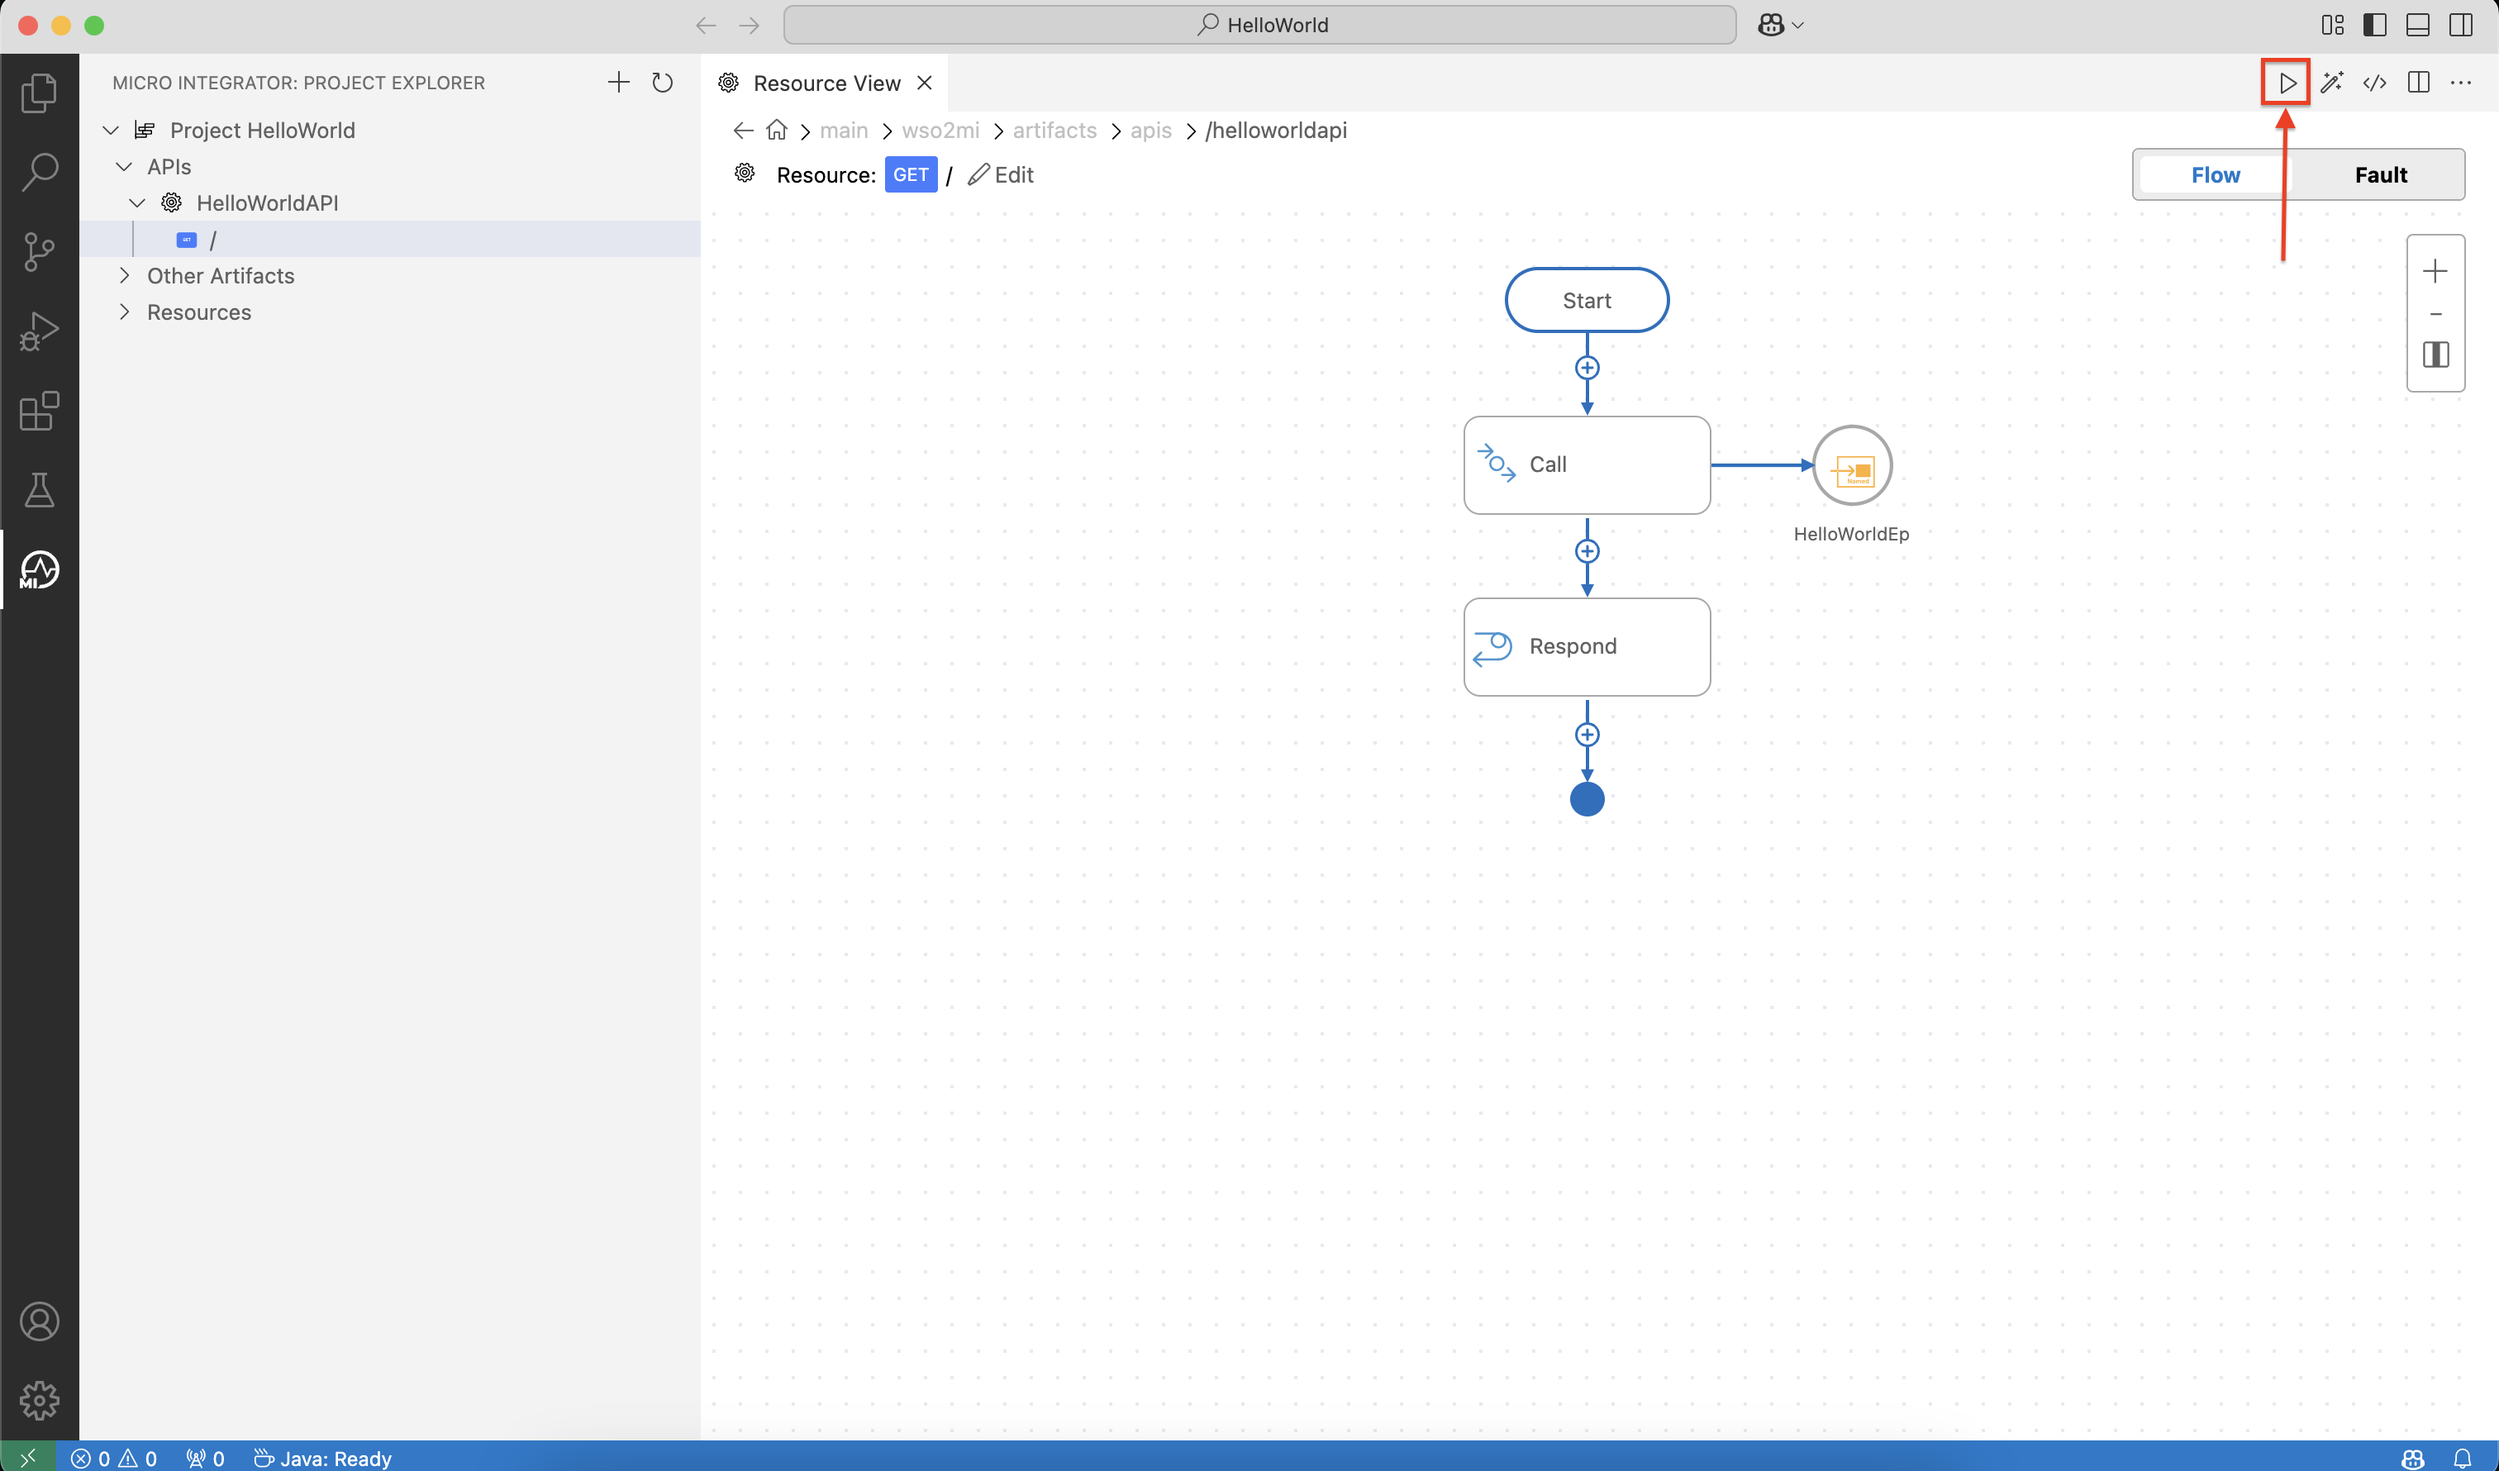
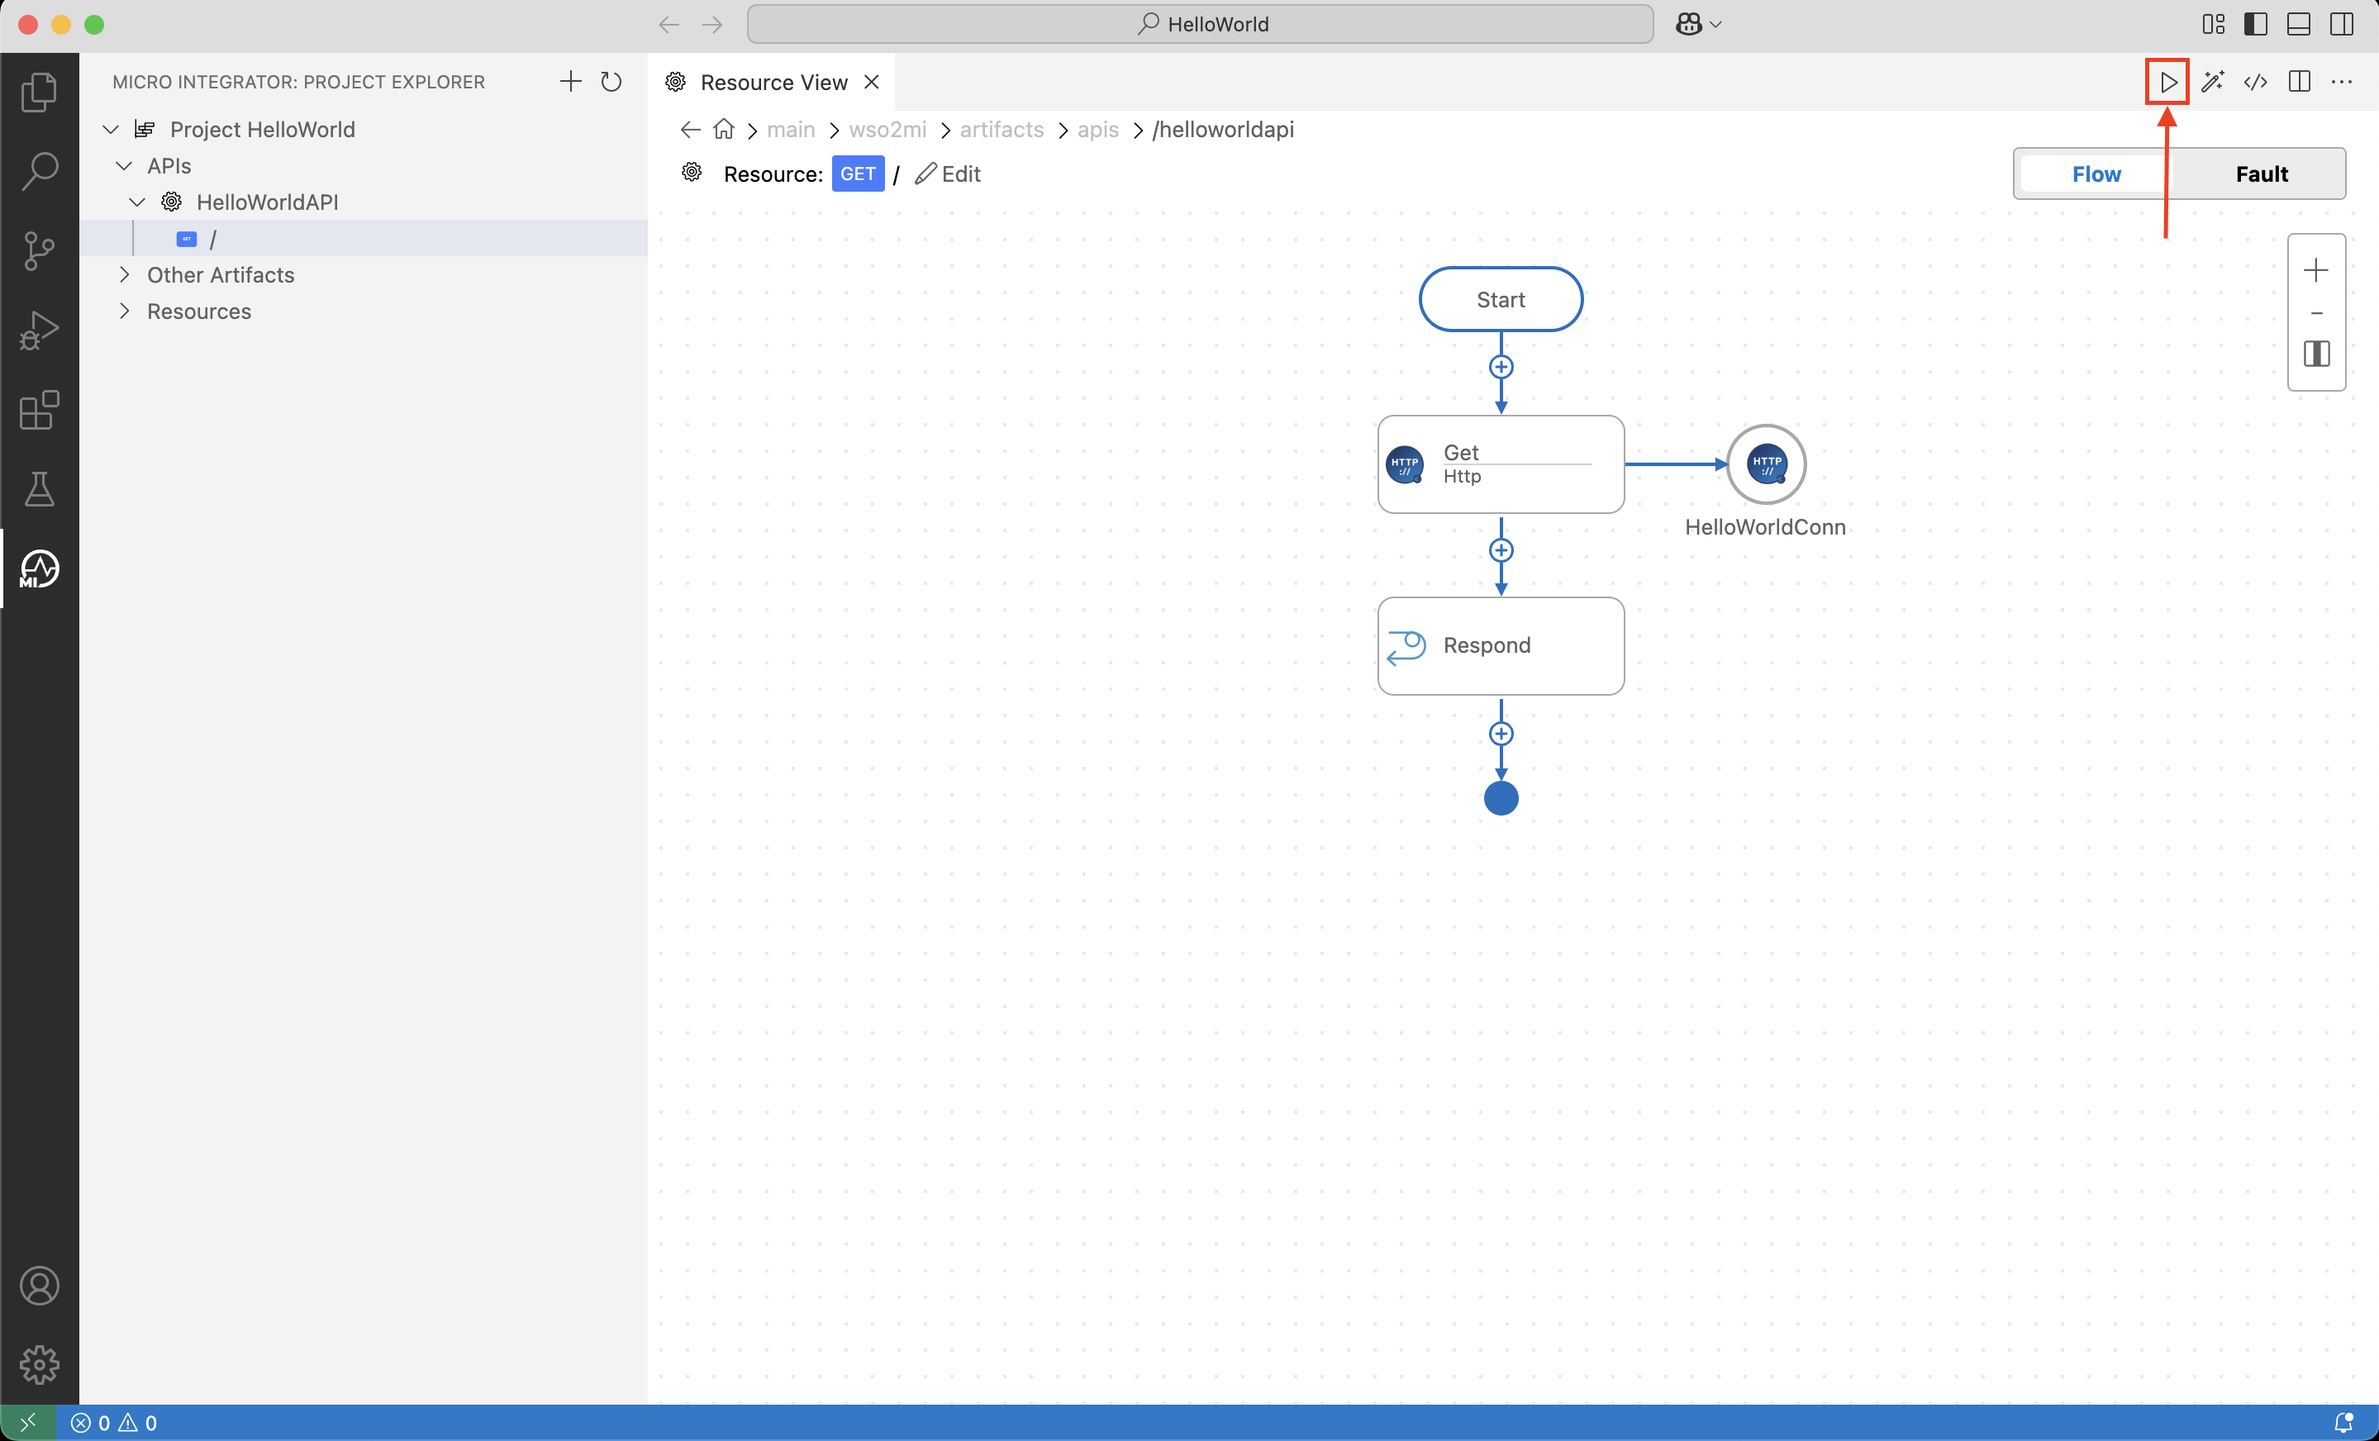
Update QSG

diff --git a/en/docs/get-started/quick-start-guide.md b/en/docs/get-started/quick-start-guide.md
@@ -46,7 +46,7 @@ To develop the above scenario, let's get started with creating an integration pr
 
     <a href="{{base_path}}/assets/img/develop/mi-for-vscode/mi-vscode-extension.png"><img src="{{base_path}}/assets/img/develop/mi-for-vscode/mi-vscode-extension.png" alt="MI VS Code Extension" width="80%"></a>
 
-3. Click **Create New Project** on **Micro Integrator Project Explorer**. For more options to create a new integration project, see [Create an Integration Project]({{base_path}}/develop/create-integration-project).
+3. Click **Create New Project** on **Micro Integrator Project Explorer**. For more options for creating a new integration project, see [Create an Integration Project]({{base_path}}/develop/create-integration-project).
 
 4. In the **Project Creation Form**, enter `HelloWorld` as the **Project Name**.
 
@@ -66,7 +66,7 @@ To develop the above scenario, let's get started with creating an integration pr
     - Java Development Kit (JDK) version 21
     - WSO2 Micro Integrator (MI) 4.4.0 runtime
 
-    If you don't have them installed in your local machine, these will be automatically prompted for downloading and configured by the Micro Integrator for VS Code extension during the project creation step:
+    If you don't have them installed on your local machine, these will be automatically prompted for downloading and configured by the Micro Integrator for VS Code extension during the project creation step:
 
     1. Click **Download Java & MI** to download and set up Java and MI runtime.
 
@@ -96,16 +96,24 @@ To develop the above scenario, let's get started with creating an integration pr
 
 3. Click **+ View More** under **Create an Integration**.
 
-4. Select **Connections** under **Other Artifacts**. This opens the **Connector Store Form**.
+4. Select **Connections** under **Other Artifacts**.
+
+    <a href="{{base_path}}/assets/img/develop/mi-for-vscode/qsg/connections.png"><img src="{{base_path}}/assets/img/develop/mi-for-vscode/qsg/connections.png" alt="Connections" width="80%"></a>
+
+    This opens the **Connector Store Form**.
 
 5. Select **HTTPS**. You need to add dependencies to the project, if not added yet.
 
-6. In the **Add New Connection** form, specify the following values to create the new HTTPS connection.
+    <a href="{{base_path}}/assets/img/develop/mi-for-vscode/qsg/https-connection.png"><img src="{{base_path}}/assets/img/develop/mi-for-vscode/qsg/https-connection.png" alt="HTTPS Connection" width="80%"></a>
+
+6. In the **Connector Store Form**, under **Add New Connection**, specify the following values to create the new HTTPS connection.
     
     | Property            | Value                   |
     |---------------------|-------------------------|
     | **Connection Name** | `HelloWorldConn`        |
     | **Base URL**        | `https://apis.wso2.com` |
+ 
+    <a href="{{base_path}}/assets/img/develop/mi-for-vscode/qsg/add-new-connection.png"><img src="{{base_path}}/assets/img/develop/mi-for-vscode/qsg/add-new-connection.png" alt="Add new connection" width="80%"></a>
 
 7. Click **Add**.
 
@@ -117,13 +125,13 @@ Now the integration project is ready to add an API. In this scenario, the API ca
 
 2. Click on the **+** icon to open the **Add Artifact** interface.
 
-1. In the **Add Artifact** interface, under **Create an Integration**, click on **API**. This opens the **API Form**.
+3. In the **Add Artifact** interface, under **Create an Integration**, click on **API**. This opens the **API Form**.
 
-3. Enter `HelloWorldAPI` as the API **Name**. The API **Context** field will be automatically populated with the same value.
+4. Enter `HelloWorldAPI` as the API **Name**. The API **Context** field will be automatically populated with the same value.
 
     <a href="{{base_path}}/assets/img/develop/mi-for-vscode/qsg/new-api.png"><img src="{{base_path}}/assets/img/develop/mi-for-vscode/qsg/new-api.png" alt="Create New API" width="80%"></a>
 
-4. Click **Create**.
+5. Click **Create**.
 
 Once you create the API, a default resource will be automatically generated. You can see this default resource listed in the **Service Designer** under **Available resources**. You'll use this resource in this tutorial.
 
@@ -134,7 +142,7 @@ Once you create the API, a default resource will be automatically generated. You
 
 ## Step 4 - Design the integration
 
-Now it is time to design your API. This is the underlying logic that is executed behind the scenes when an API request is made. In this scenario first, you need to call the backend service. For that, you have to add an [HTTP connection AAA LINK]({{base_path}}/reference/synapse-properties/endpoint-properties). Follow the below steps to create an HTTPS connection.
+Now it is time to design your API. This is the underlying logic that is executed behind the scenes when an API request is made. In this scenario first, you need to call the backend service. For that, you have to add an [HTTP connection]({{base_path}}/reference/connectors/http-connector/http-connector-overview). Follow the below steps to create an HTTPS connection.
 
 1. Open the **Resource View** of the API resource.
 
@@ -142,28 +150,28 @@ Now it is time to design your API. This is the underlying logic that is executed
 
     2. Under `HelloWorldAPI`, click the default API resource to open the **Resource View** of the API resource.
 
-7. Once you open the **Resource View**, click on the **+** icon on the Canvas to open the palette.
+2. Once you open the **Resource View**, click on the **+** icon on the canvas to open the palette.
 
-8. Select the **GET** operation under **Mediators** > **HTTP**.
+3. Select the **GET** operation under **Mediators** > **HTTP**.
 
-9. In the **Add GET** pane that appears, specify the following values.
+4. In the **Add GET** pane that appears, specify the following values.
 
     | Property           | Value               |
     |--------------------|---------------------|
     | **Connection**     | `HelloWorldConn`    |
     | **Relative Path**  | `/zvdz/mi-qsg/v1.0` |
 
-10. Click **Submit**.
+5. Click **Submit**.
 
     Now let's add a [Respond Mediator]({{base_path}}/reference/mediators/respond-mediator) to respond the message to the client.
 
-11. Click on the **+** icon placed just after the HTTPS GET operation to open the palette.
+6. Click on the **+** icon placed just after the HTTPS GET operation to open the palette.
 
-12. Select **Respond** mediator under **Mediators**.
+7. Select **Respond** mediator under **Mediators**.
 
-13. Click **Add**.
+8. Click **Add**.
 
-[//]: # (    <a href="{{base_path}}/assets/img/develop/mi-for-vscode/qsg/design-api.gif"><img src="{{base_path}}/assets/img/develop/mi-for-vscode/qsg/design-api.gif" alt="Design API" width="80%"></a>)
+    <a href="{{base_path}}/assets/img/develop/mi-for-vscode/qsg/design-api.gif"><img src="{{base_path}}/assets/img/develop/mi-for-vscode/qsg/design-api.gif" alt="Design API" width="80%"></a>
 
 Following is what you'll see in the **Source View** of the VS Code.
 
@@ -176,7 +184,7 @@ Following is what you'll see in the **Source View** of the VS Code.
     <resource methods="GET" uri-template="/">
         <inSequence>
             <http.get configKey="HelloWorldConn">
-                <relativePath></relativePath>
+                <relativePath>/zvdz/mi-qsg/v1.0</relativePath>
                 <headers>[]</headers>
                 <forceScAccepted>false</forceScAccepted>
                 <disableChunking>false</disableChunking>
@@ -185,7 +193,8 @@ Following is what you'll see in the **Source View** of the VS Code.
                 <responseVariable>http_get_1</responseVariable>
                 <overwriteBody>true</overwriteBody>
             </http.get>
-            <respond /></inSequence>
+            <respond/>
+        </inSequence>
         <faultSequence>
         </faultSequence>
     </resource>
@@ -216,7 +225,7 @@ Now that you have developed an integration using the Micro Integrator for the Vi
 
 Click the **Build and Run** icon located in the top right corner of VS Code.
 
-[//]: # (<a href="{{base_path}}/assets/img/develop/mi-for-vscode/qsg/build-and-run-project.png"><img src="{{base_path}}/assets/img/develop/mi-for-vscode/qsg/build-and-run-project.png" alt="Build and run" width="80%"></a>)
+<a href="{{base_path}}/assets/img/develop/mi-for-vscode/qsg/build-and-run-project.png"><img src="{{base_path}}/assets/img/develop/mi-for-vscode/qsg/build-and-run-project.png" alt="Build and run" width="80%"></a>
 
 ## Step 6 - Test the integration service
 
@@ -226,7 +235,7 @@ When you run the integration artifact as in [Step 4](#step-4-run-the-integration
 
 Select `HelloWorldAPI` that you have developed and test the resource.
 
-[//]: # (<a href="{{base_path}}/assets/img/develop/mi-for-vscode/qsg/test-api.gif"><img src="{{base_path}}/assets/img/develop/mi-for-vscode/qsg/test-api.gif" alt="Test API" width="80%"></a>)
+<a href="{{base_path}}/assets/img/develop/mi-for-vscode/qsg/test-api.gif"><img src="{{base_path}}/assets/img/develop/mi-for-vscode/qsg/test-api.gif" alt="Test API" width="80%"></a>
 
 Congratulations!
 Now, you have created your first integration service.
